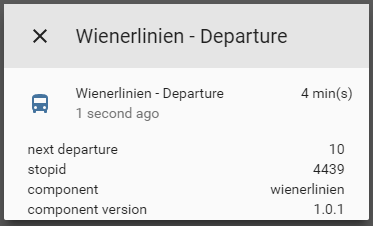
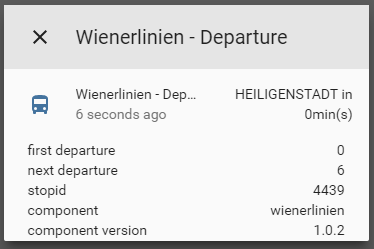
wienerlinien 1.0.2 - added destination name to the state

diff --git a/wienerlinien/custom_components/sensor/wienerlinien.py b/wienerlinien/custom_components/sensor/wienerlinien.py
@@ -17,6 +17,7 @@ CONF_APIKEY = 'apikey'
 
 ATTR_STOPID = 'stopid'
 ATTR_NEXT_DEPARTURE = 'next_departure'
+ATTR_FIRST_DEPARTURE = 'first_departure'
 ATTR_COMPONENT = 'component'
 ATTR_COMPONENT_VERSION = 'component_version'
 
@@ -24,7 +25,7 @@ SCAN_INTERVAL = timedelta(seconds=30)
 
 ICON = 'mdi:bus'
 COMPONENT_NAME = 'wienerlinien'
-COMPONENT_VERSION = '1.0.1'
+COMPONENT_VERSION = '1.0.2'
 
 PLATFORM_SCHEMA = PLATFORM_SCHEMA.extend({
     vol.Required(CONF_STOPID): cv.string,
@@ -42,8 +43,9 @@ def setup_platform(hass, config, add_devices, discovery_info=None):
 
 class WienerlinienSensor(Entity):
     def __init__(self, stopid, apikey):
-        self._state = 'N/A'
+        self._state = None
         self._nextdeparture = 'N/A'
+        self._firstdeparture = 'N/A'
         self._stopid = stopid
         self._apikey = apikey
         self._component = COMPONENT_NAME
@@ -59,14 +61,18 @@ class WienerlinienSensor(Entity):
             try:
                 departure['monitors'][0]['lines'][0]['departures']['departure'][0]['departureTime']['countdown']
             except:
-                countdown = 'N/A'
+                firstDeparture = 'N/A'
                 nextDeparture = 'N/A'
             else:
-                countdown = departure['monitors'][0]['lines'][0]['departures']['departure'][0]['departureTime']['countdown']
+                firstDeparture = departure['monitors'][0]['lines'][0]['departures']['departure'][0]['departureTime']['countdown']
                 nextDeparture = departure['monitors'][0]['lines'][0]['departures']['departure'][1]['departureTime']['countdown']
-            self._state = countdown
+            DepartureTowards = departure['monitors'][0]['lines'][0]['towards']
+            if firstDeparture == 'N/A':
+                self._state = DepartureTowards
+            else: 
+                self._state = DepartureTowards + ' in ' + str(firstDeparture) + 'min(s)'
+            self._firstdeparture = firstDeparture
             self._nextdeparture = nextDeparture
-
 
     @property
     def name(self):
@@ -81,12 +87,9 @@ class WienerlinienSensor(Entity):
         return ICON
 
     @property
-    def unit_of_measurement(self):
-        return 'min(s)'
-
-    @property
     def device_state_attributes(self):
         return {
+            ATTR_FIRST_DEPARTURE: self._firstdeparture,
             ATTR_NEXT_DEPARTURE: self._nextdeparture,
             ATTR_STOPID: self._stopid,
             ATTR_COMPONENT: self._component,

diff --git a/wienerlinien/README.md b/wienerlinien/README.md
@@ -1,5 +1,5 @@
 # custom_component to get info about next departures
-![Version](https://img.shields.io/badge/version-1.0.0-green.svg?style=for-the-badge)
+![Version](https://img.shields.io/badge/version-1.0.2-green.svg?style=for-the-badge)
 
 A component which allows you to get information about next departure from spesified stop. 
 
